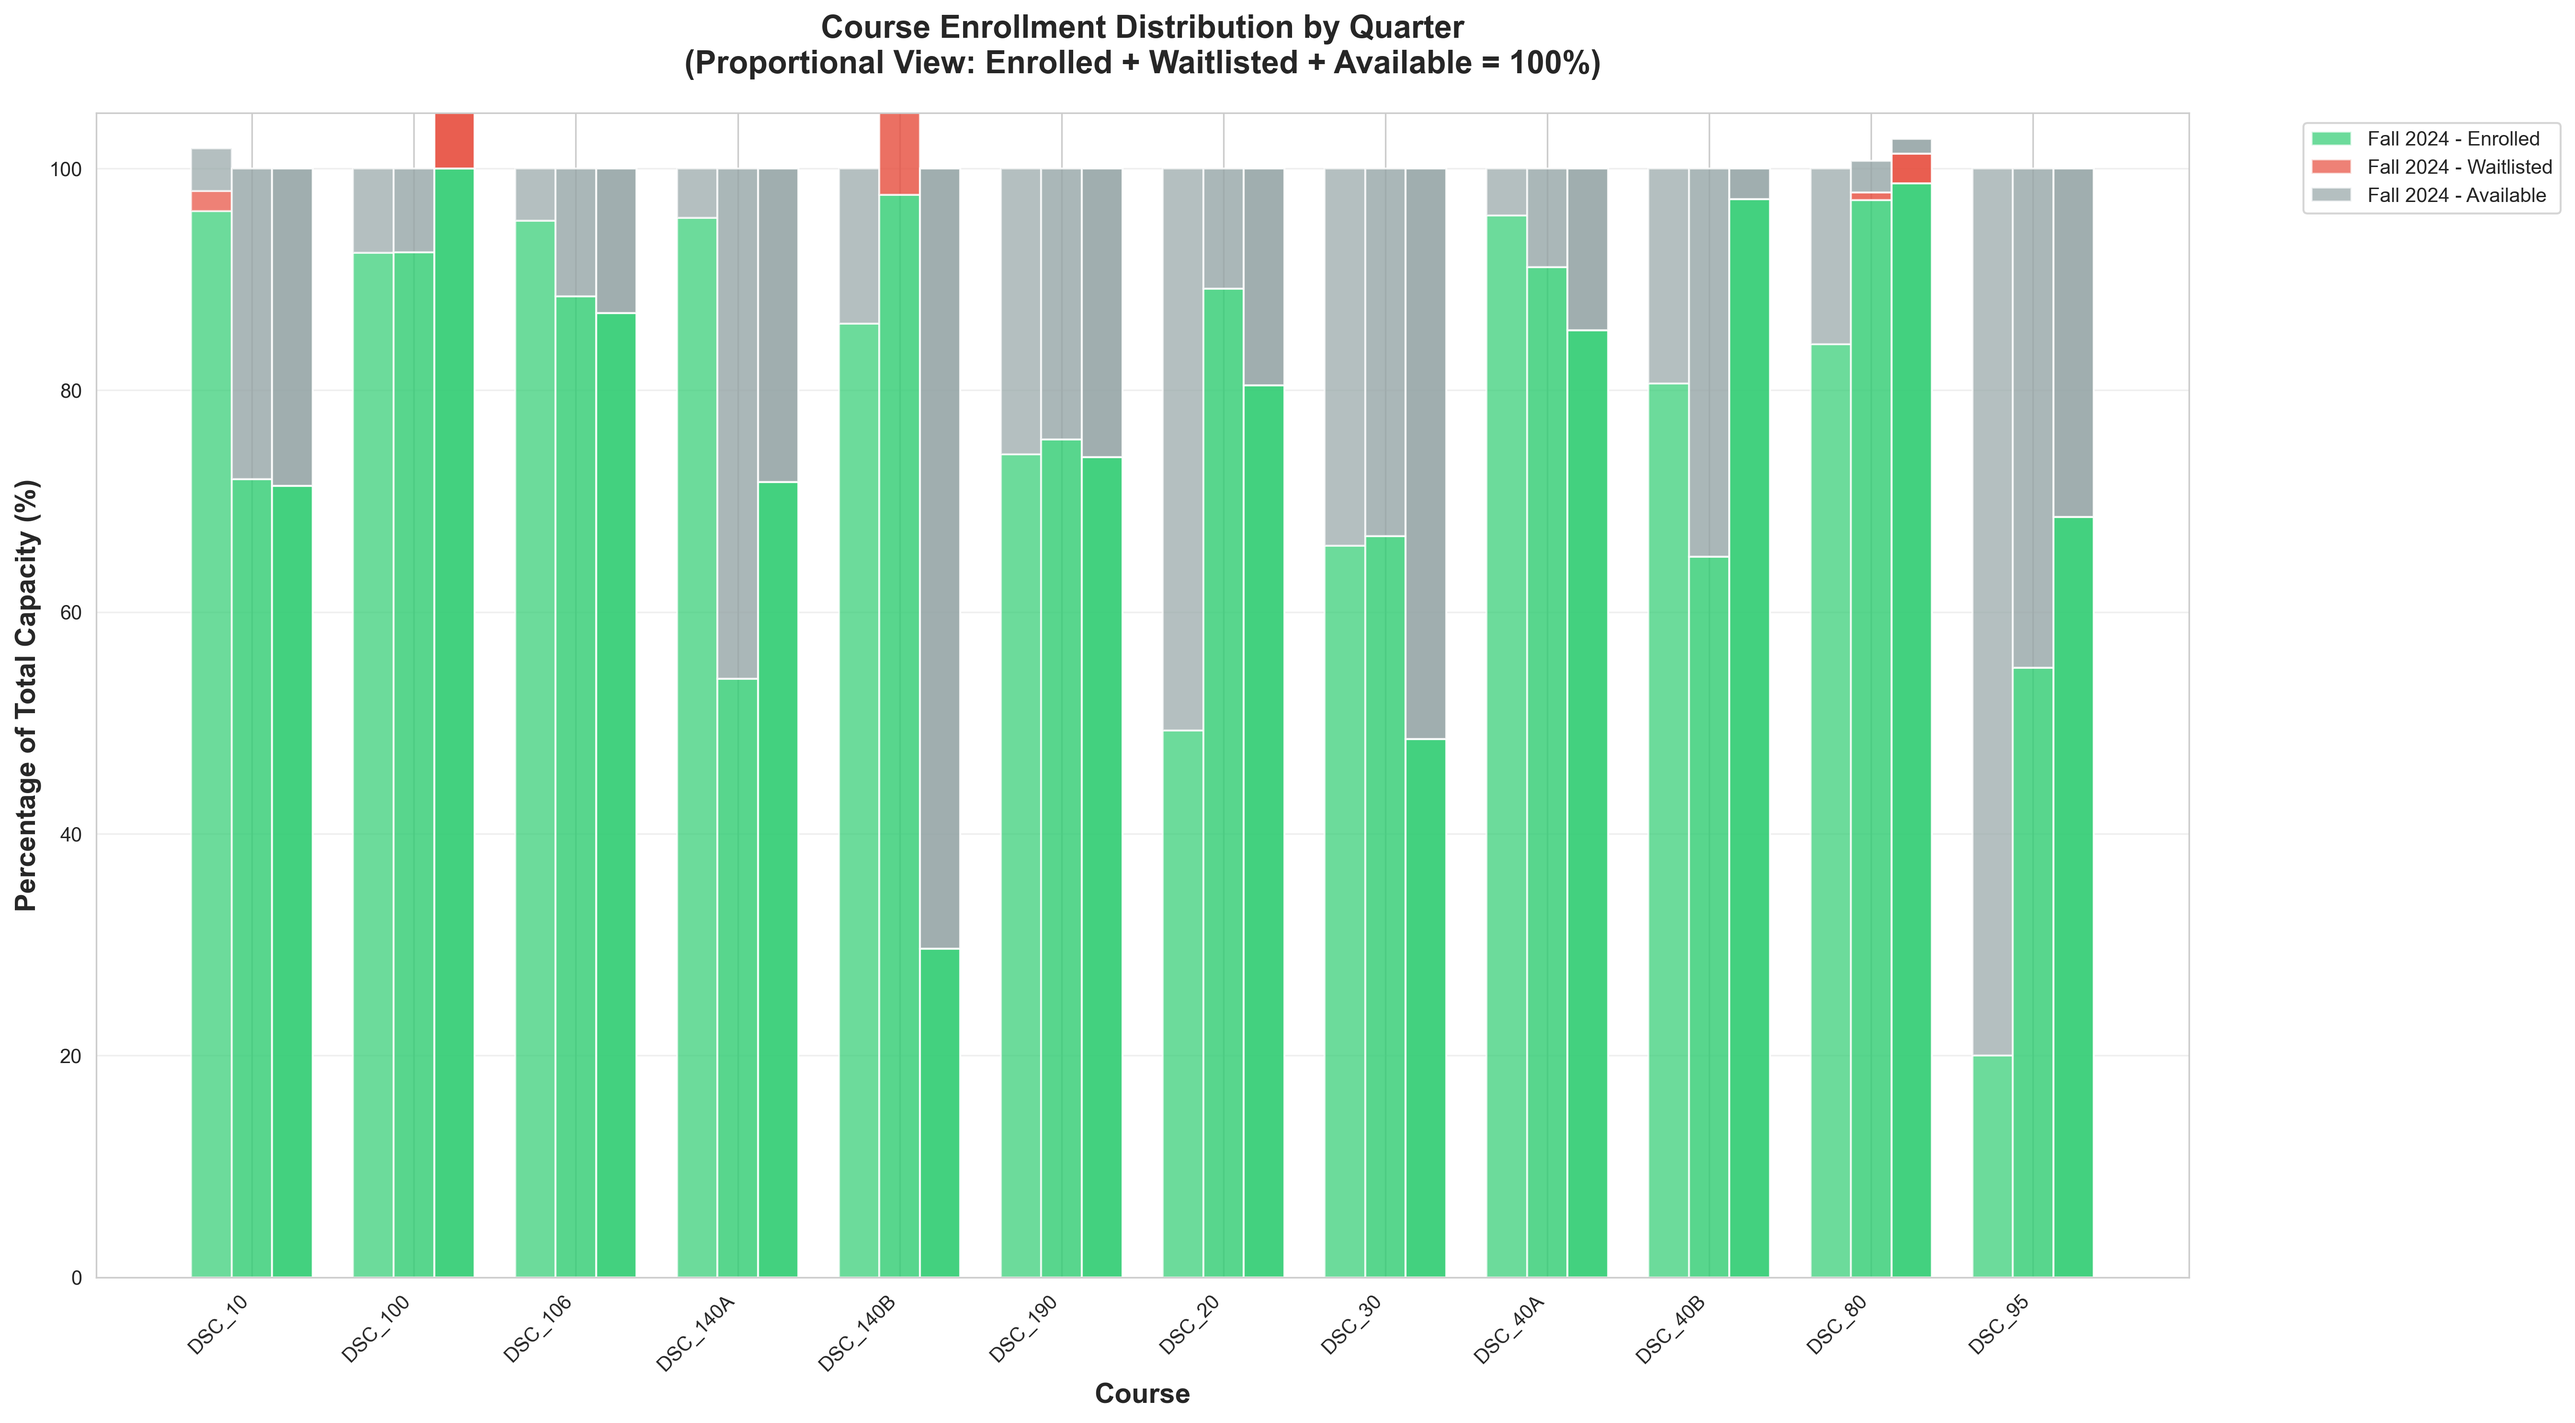
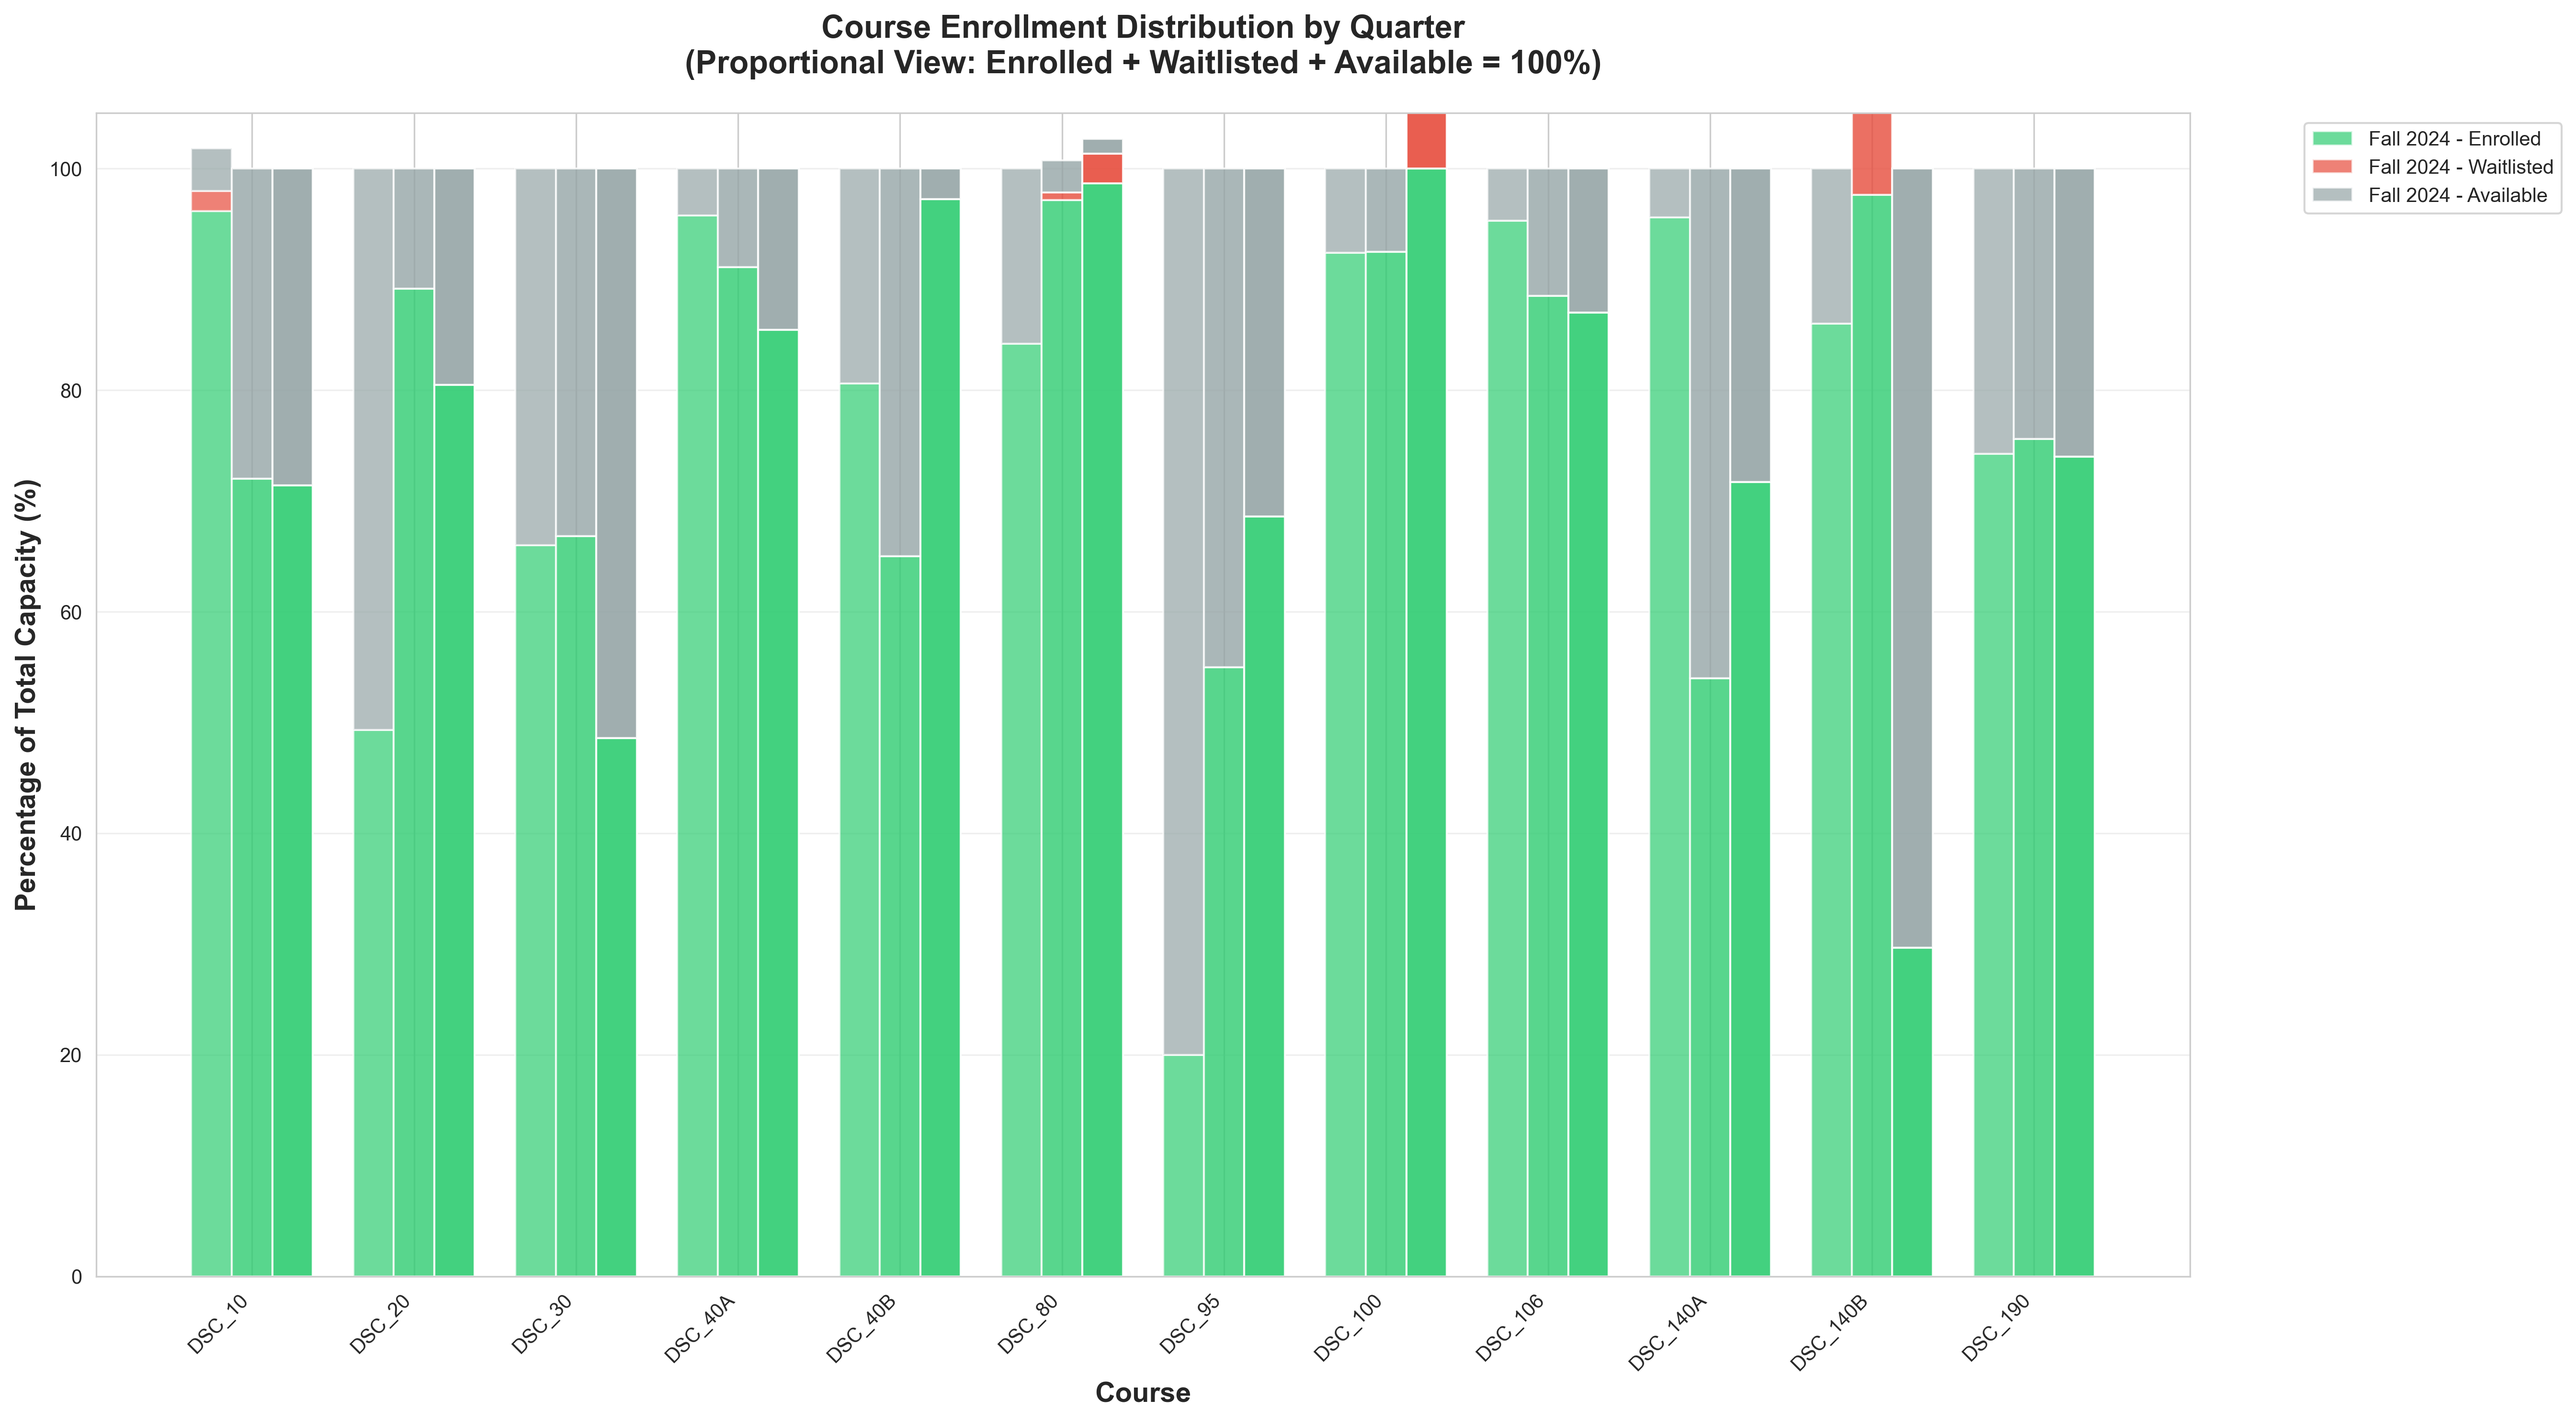
added new plots, fixed axes on existing

diff --git a/visualize_enrollment.py b/visualize_enrollment.py
@@ -2,9 +2,28 @@ import pandas as pd
 import matplotlib.pyplot as plt
 import seaborn as sns
 import numpy as np
+import re
+
+def extract_course_num(course):
+    match = re.search(r'(\d+)([A-Za-z]*)', course)
+    if match:
+        number = int(match.group(1))
+        suffix = match.group(2)
+        return (number, suffix)
+    return (0, '')
 
 # Load the data
 df = pd.read_csv('enrollment_comparison.csv')
+
+# Ensure quarter order
+quarter_order = ['Fall 2024', 'Winter 2025', 'Spring 2025']
+df['quarter_label'] = pd.Categorical(df['quarter_label'], categories=quarter_order, ordered=True)
+
+# Sort courses with unique, properly ordered categories
+sorted_courses = sorted(df['course'].unique(), key=lambda x: extract_course_num(x))
+course_order = sorted_courses
+df['course'] = pd.Categorical(df['course'], categories=sorted_courses, ordered=True)
+
 
 # Set style
 sns.set_style("whitegrid")
@@ -23,10 +42,6 @@ quarter_colors = {
     'Spring 2025': '#3498db',   # Blue
     'Winter 2025': '#9b59b6'    # Purple
 }
-
-# Sort courses for better visualization
-course_order = sorted(df['course'].unique())
-df['course'] = pd.Categorical(df['course'], categories=course_order, ordered=True)
 
 print("Creating visualizations...")
 print("=" * 60)
@@ -357,3 +372,84 @@ print("  6. enrollment_dashboard.png - Comprehensive multi-metric dashboard")
 print("\nData file:")
 print("  - enrollment_comparison.csv - Raw comparison data")
 
+
+# ============================================================================
+# VISUALIZATION 7: Course-Level Trend Line Plot
+# ============================================================================
+plt.figure(figsize=(14, 8))
+sns.lineplot(data=df, x='quarter_label', y='enrolled', hue='course', marker='o')
+plt.title('Enrollment Trends Across Quarters by Course', fontsize=16, fontweight='bold')
+plt.ylabel('Number of Enrolled Students')
+plt.xlabel('Quarter')
+plt.legend(bbox_to_anchor=(1.05, 1), loc='upper left')
+plt.grid(alpha=0.3)
+plt.tight_layout()
+plt.savefig('enrollment_trends_by_course.png', dpi=300)
+plt.close()
+
+
+# ============================================================================
+# VISUALIZATION 8: Waitlist-to-Capacity Ratio Chart
+# ============================================================================
+df['waitlist_ratio'] = (df['waitlisted'] / df['total']) * 100
+plt.figure(figsize=(12, 8))
+sns.barplot(data=df, x='course', y='waitlist_ratio', hue='quarter_label', palette=quarter_colors)
+plt.title('Waitlist Pressure (% of Total Capacity)', fontsize=16, fontweight='bold')
+plt.ylabel('Waitlisted / Capacity (%)')
+plt.xlabel('Course')
+plt.xticks(rotation=45, ha='right')
+plt.legend(bbox_to_anchor=(1.05, 1))
+plt.grid(axis='y', alpha=0.3)
+plt.tight_layout()
+plt.savefig('waitlist_pressure.png', dpi=300)
+plt.close()
+
+
+# ============================================================================
+# VISUALIZATION 9: Capacity vs Enrollment Scatter Plot
+# ============================================================================
+plt.figure(figsize=(10, 8))
+sns.scatterplot(data=df, x='total', y='enrolled', hue='quarter_label', style='course', s=150)
+plt.plot([0, df['total'].max()], [0, df['total'].max()], 'r--', label='Perfect Capacity Usage')
+plt.xlabel('Total Capacity')
+plt.ylabel('Enrolled Students')
+plt.title('Enrollment vs. Capacity by Quarter', fontsize=16, fontweight='bold')
+plt.legend(bbox_to_anchor=(1.05, 1))
+plt.tight_layout()
+plt.savefig('enrollment_vs_capacity.png', dpi=300)
+plt.close()
+
+
+# ============================================================================
+# VISUALIZATION 10: Bottleneck Courses Over Time
+# ============================================================================
+top_waitlist = df.groupby('quarter_label').apply(lambda x: x.nlargest(5, 'waitlisted'))
+plt.figure(figsize=(12, 8))
+sns.barplot(data=top_waitlist, x='course', y='waitlisted', hue='quarter_label', dodge=True)
+plt.title('Top 5 Courses by Waitlist Size Each Quarter', fontsize=16, fontweight='bold')
+plt.ylabel('Waitlisted Students')
+plt.xlabel('Course')
+plt.xticks(rotation=45, ha='right')
+plt.legend(bbox_to_anchor=(1.05, 1))
+plt.tight_layout()
+plt.savefig('top_waitlist_courses.png', dpi=300)
+plt.close()
+
+
+
+# ============================================================================
+# VISUALIZATION 11: Quarter-over-Quarter Change Plot
+# ============================================================================
+df_sorted = df.sort_values(['course', 'quarter_label'])
+df_sorted['enrollment_change'] = df_sorted.groupby('course')['enrolled'].pct_change() * 100
+plt.figure(figsize=(14, 8))
+sns.barplot(data=df_sorted, x='course', y='enrollment_change', hue='quarter_label', palette=quarter_colors)
+plt.title('Quarter-over-Quarter Enrollment Change (%)', fontsize=16, fontweight='bold')
+plt.ylabel('Enrollment Change (%)')
+plt.xlabel('Course')
+plt.xticks(rotation=45, ha='right')
+plt.axhline(0, color='black', linewidth=1)
+plt.grid(axis='y', alpha=0.3)
+plt.tight_layout()
+plt.savefig('enrollment_change_by_quarter.png', dpi=300)
+plt.close()
